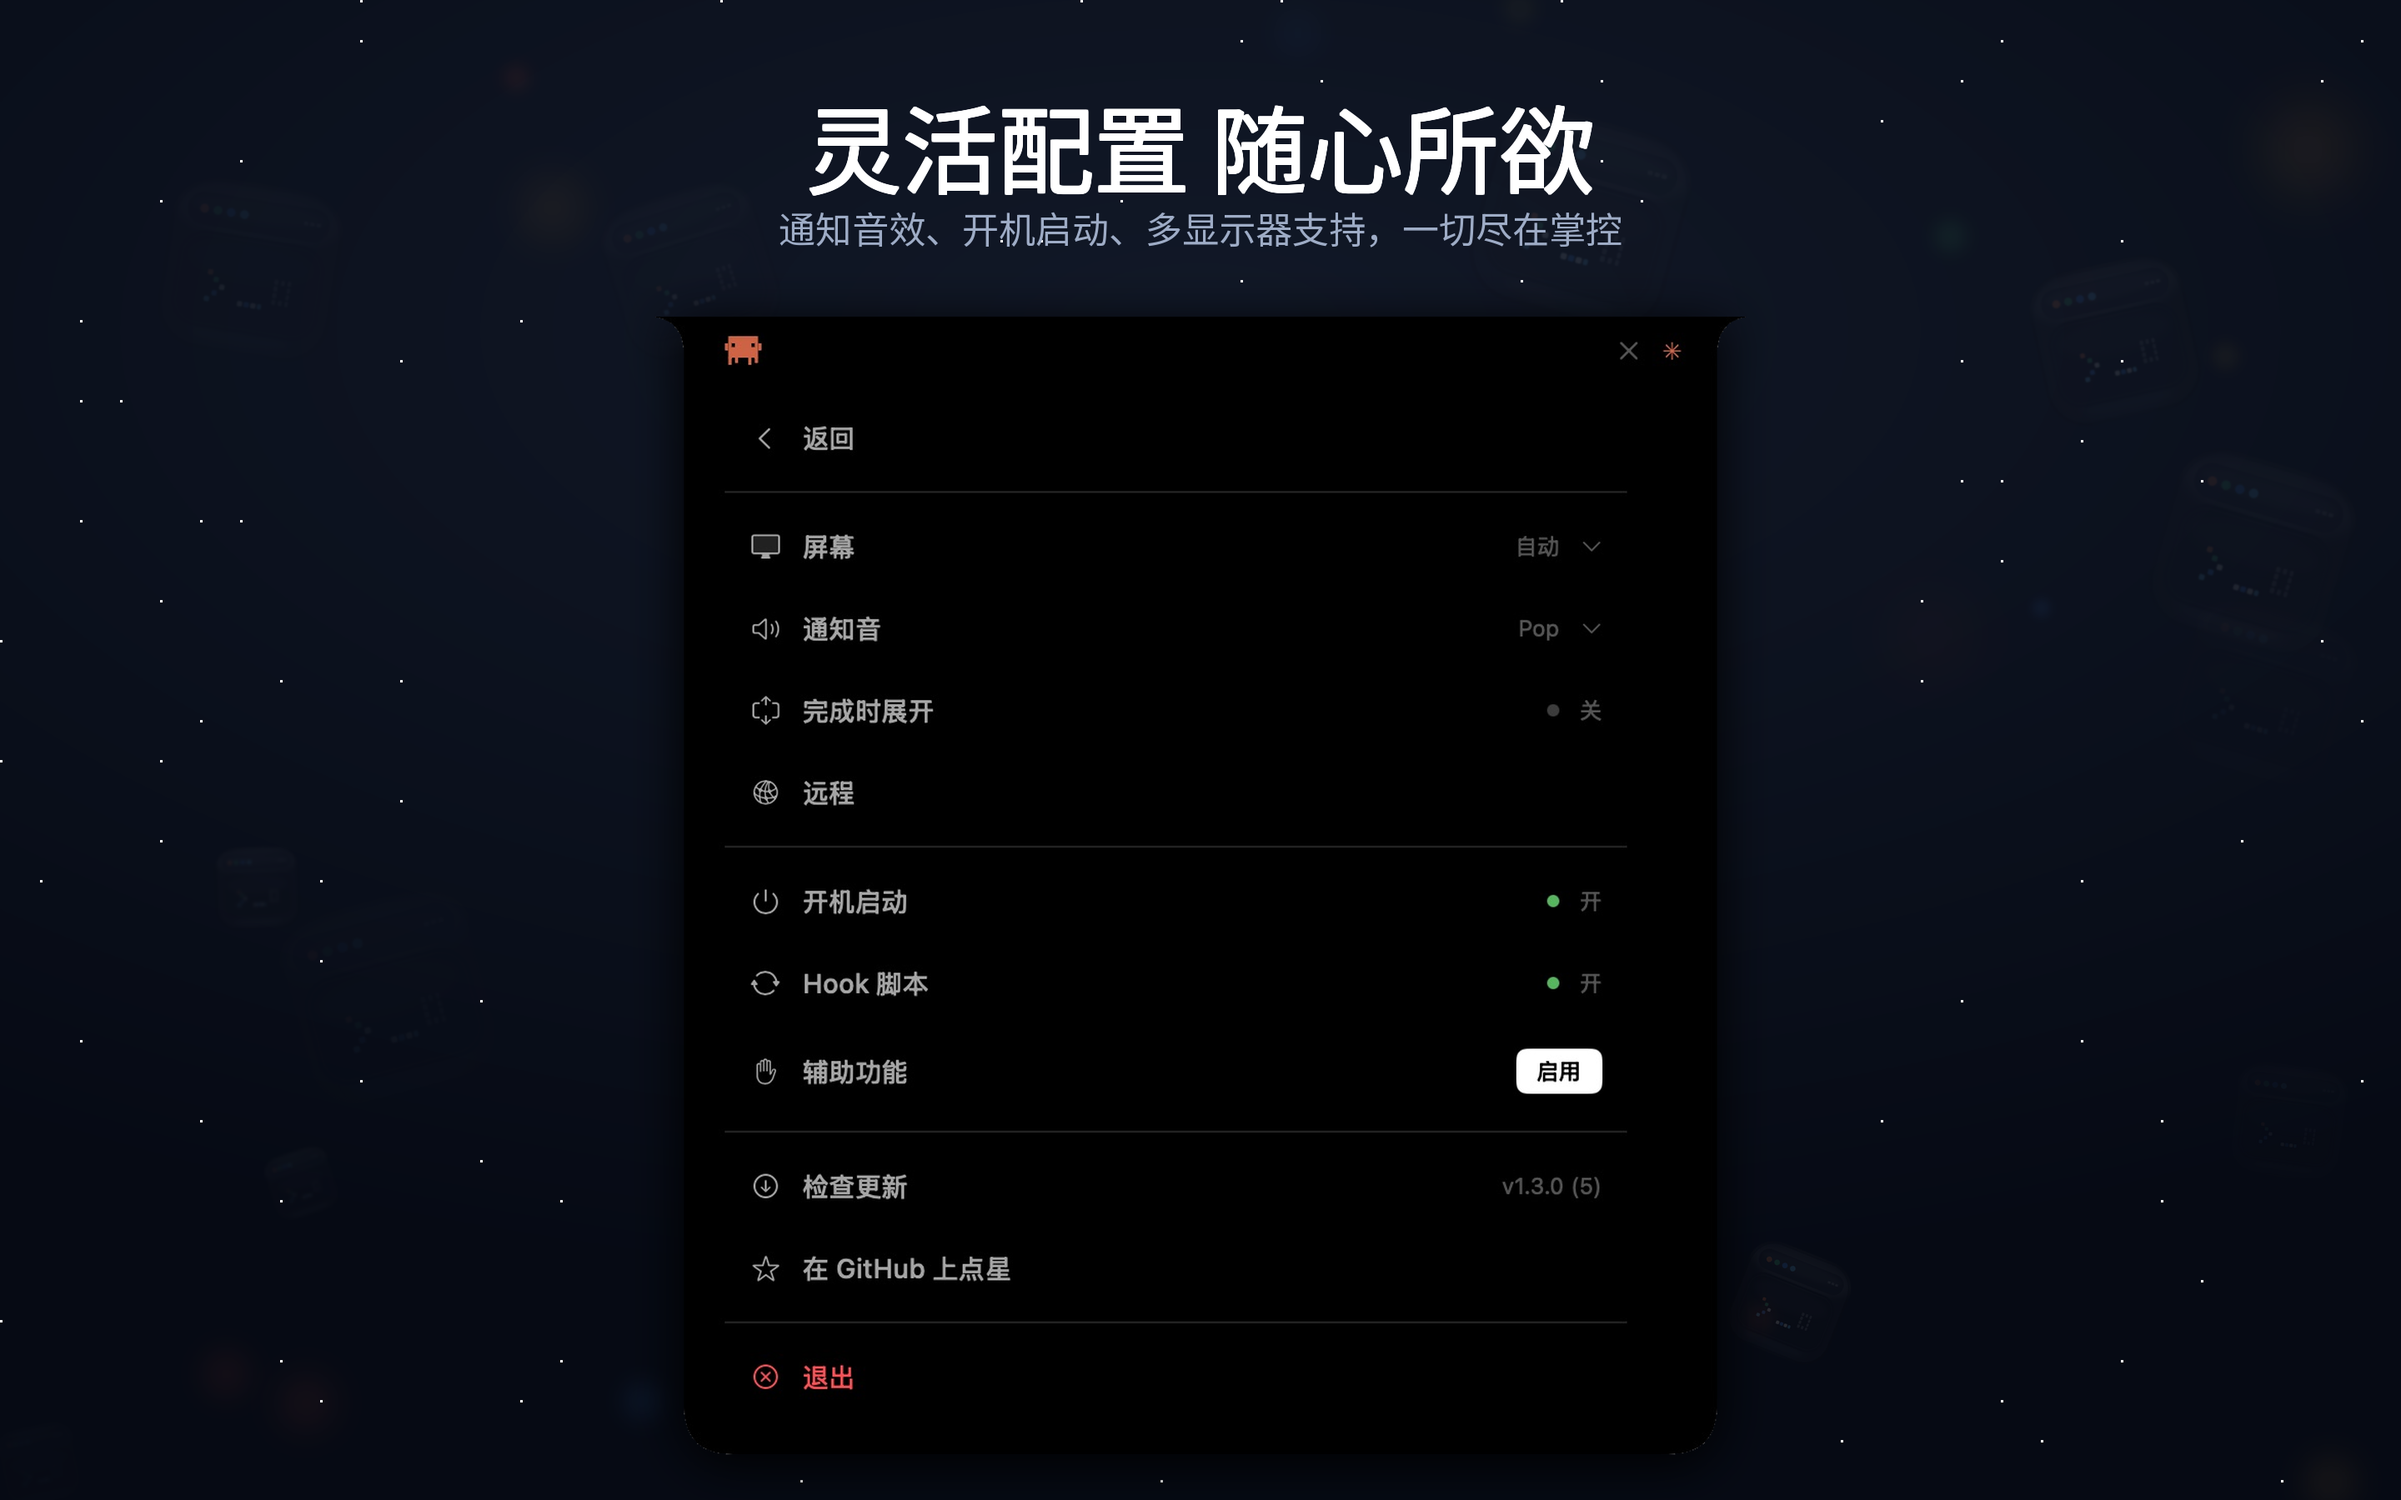
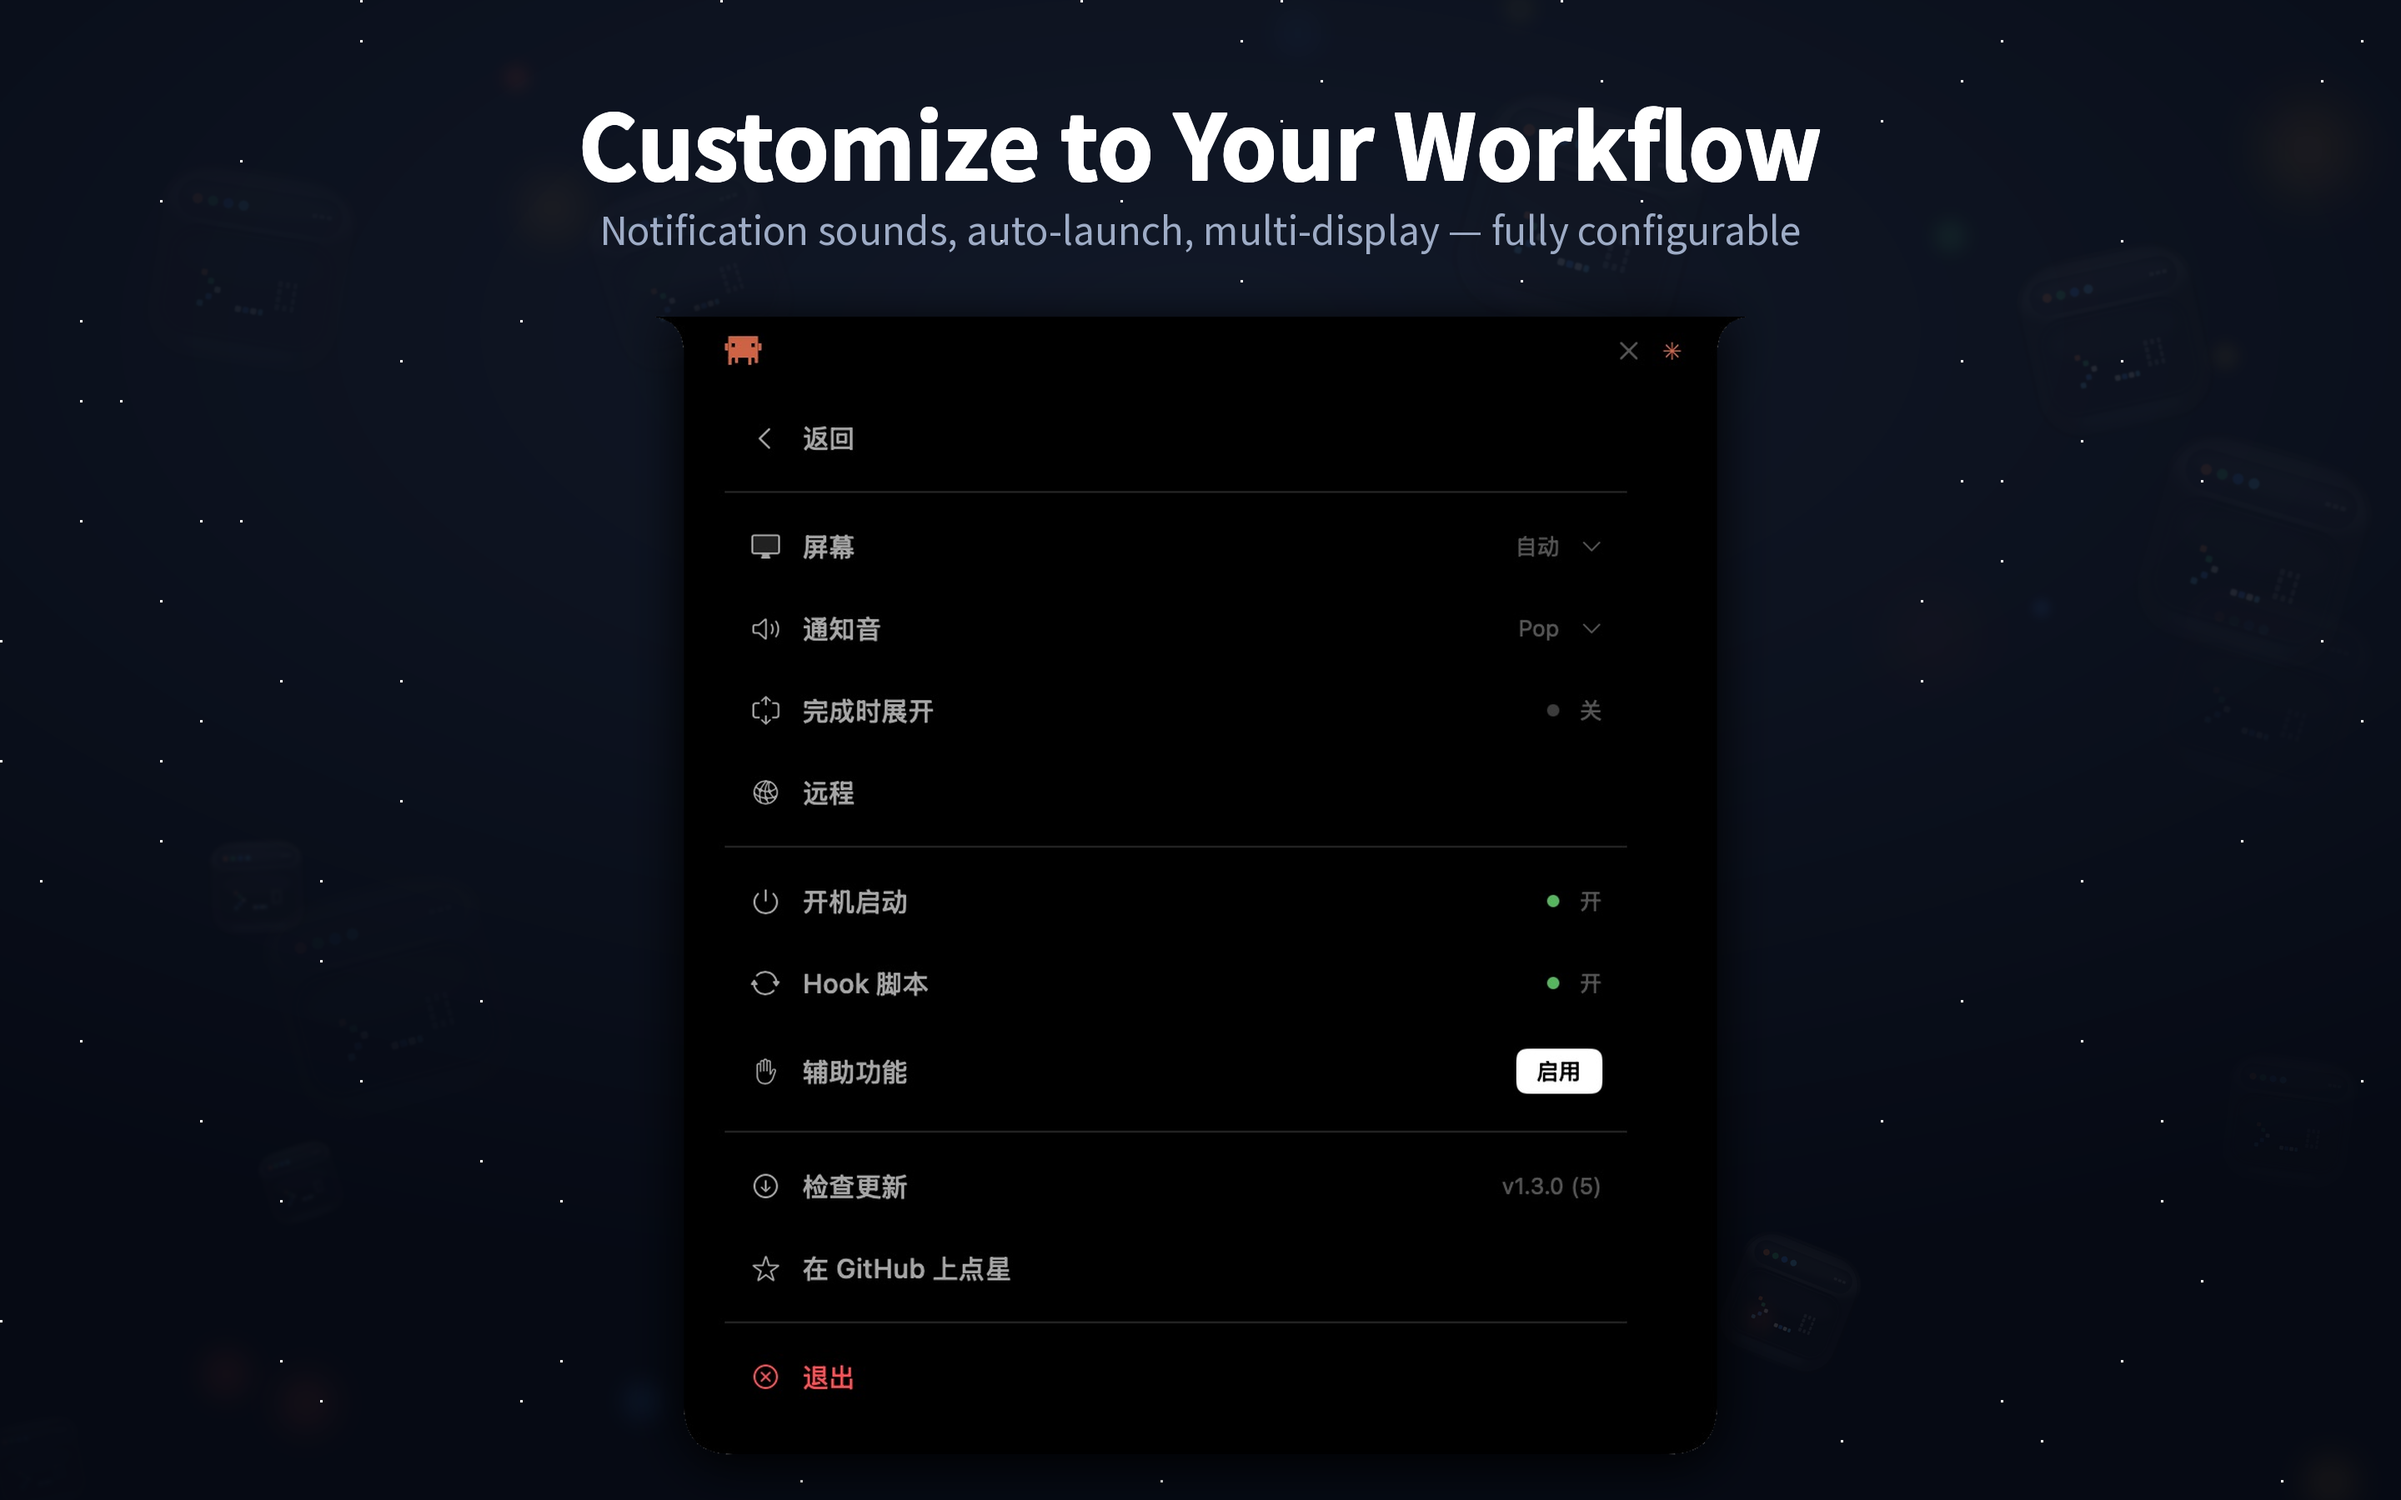
feat: update GitHub Pages with new EN screenshots and improved layout
- Replace screenshots with new English versions
- Add menubar and onboarding screenshots
- Change to single-column hero + two-column secondary layout for better visibility
- Add click-to-enlarge lightbox for all screenshots
- Widen screenshot container to 1200px

Changed region(s): [[0.2188, 0.0622, 0.7812, 0.1867]]

diff --git a/docs/index.html b/docs/index.html
@@ -32,6 +32,7 @@
         }
 
         .container { max-width: 960px; margin: 0 auto; padding: 0 24px; }
+        .container-wide { max-width: 1200px; margin: 0 auto; padding: 0 24px; }
 
         /* Hero */
         .hero {
@@ -92,8 +93,14 @@
         }
         .screenshot-grid {
             display: grid;
+            grid-template-columns: 1fr;
+            gap: 24px;
+            max-width: 900px;
+            margin: 0 auto;
+        }
+        .screenshot-grid.two-col {
             grid-template-columns: 1fr 1fr;
-            gap: 20px;
+            max-width: 100%;
         }
         .screenshot-card {
             background: var(--bg-card);
@@ -106,6 +113,7 @@
         .screenshot-card img {
             width: 100%;
             display: block;
+            cursor: zoom-in;
         }
         .screenshot-card .caption {
             padding: 16px 20px;
@@ -118,6 +126,26 @@
         .screenshot-card .caption p {
             font-size: 14px;
             color: var(--text-dim);
+        }
+
+        /* Lightbox */
+        .lightbox-overlay {
+            display: none;
+            position: fixed;
+            top: 0; left: 0; right: 0; bottom: 0;
+            background: rgba(0,0,0,0.9);
+            z-index: 9999;
+            cursor: zoom-out;
+            justify-content: center;
+            align-items: center;
+            padding: 24px;
+        }
+        .lightbox-overlay.active { display: flex; }
+        .lightbox-overlay img {
+            max-width: 100%;
+            max-height: 100%;
+            border-radius: 12px;
+            object-fit: contain;
         }
 
         /* Features */
@@ -244,7 +272,7 @@
         @media (max-width: 768px) {
             .hero h1 { font-size: 32px; }
             .hero .tagline { font-size: 17px; }
-            .screenshot-grid { grid-template-columns: 1fr; }
+            .screenshot-grid, .screenshot-grid.two-col { grid-template-columns: 1fr; }
             .feature-grid { grid-template-columns: 1fr; }
             .steps { grid-template-columns: 1fr; }
         }
@@ -271,31 +299,49 @@
 </section>
 
 <section class="screenshots">
-    <div class="container">
+    <div class="container-wide">
+        <!-- Hero screenshots: single column, large -->
         <div class="screenshot-grid">
             <div class="screenshot-card">
-                <img src="assets/images/sessions.png" alt="Session monitoring" loading="lazy">
+                <img src="assets/images/sessions.png" alt="Session monitoring" loading="lazy" onclick="openLightbox(this)">
                 <div class="caption">
                     <h3>Real-time Session Tracking</h3>
                     <p>Monitor all Claude Code and OpenCode sessions at a glance, including remote ones.</p>
                 </div>
             </div>
             <div class="screenshot-card">
-                <img src="assets/images/tools.png" alt="Tool tracking" loading="lazy">
+                <img src="assets/images/tools.png" alt="Tool tracking" loading="lazy" onclick="openLightbox(this)">
                 <div class="caption">
                     <h3>Tool Call Visibility</h3>
                     <p>See every tool call your AI agent makes in real time — edits, writes, commands, and more.</p>
                 </div>
             </div>
+        </div>
+        <!-- Secondary screenshots: two columns -->
+        <div class="screenshot-grid two-col" style="margin-top:24px">
             <div class="screenshot-card">
-                <img src="assets/images/remote.png" alt="Remote SSH" loading="lazy">
+                <img src="assets/images/menubar.png" alt="Menu Bar Mode" loading="lazy" onclick="openLightbox(this)">
+                <div class="caption">
+                    <h3>Menu Bar Mode</h3>
+                    <p>No notch? No problem. Access VibeHub from a menu bar icon with animated status on any Mac.</p>
+                </div>
+            </div>
+            <div class="screenshot-card">
+                <img src="assets/images/remote.png" alt="Remote SSH" loading="lazy" onclick="openLightbox(this)">
                 <div class="caption">
                     <h3>Remote SSH Monitoring</h3>
                     <p>Connect to remote servers via SSH and monitor AI sessions running on any machine.</p>
                 </div>
             </div>
             <div class="screenshot-card">
-                <img src="assets/images/settings.png" alt="Settings" loading="lazy">
+                <img src="assets/images/onboarding.png" alt="Guided Setup" loading="lazy" onclick="openLightbox(this)">
+                <div class="caption">
+                    <h3>Guided Setup</h3>
+                    <p>Pick your preferred mode on first launch. Auto mode adapts to your screen — notch or menu bar.</p>
+                </div>
+            </div>
+            <div class="screenshot-card">
+                <img src="assets/images/settings.png" alt="Settings" loading="lazy" onclick="openLightbox(this)">
                 <div class="caption">
                     <h3>Flexible Configuration</h3>
                     <p>Notification sounds, multi-display support, launch at login, and more.</p>
@@ -304,6 +350,11 @@
         </div>
     </div>
 </section>
+
+<!-- Lightbox -->
+<div class="lightbox-overlay" id="lightbox" onclick="closeLightbox()">
+    <img id="lightbox-img" src="" alt="Enlarged screenshot">
+</div>
 
 <section class="features">
     <div class="container">
@@ -402,5 +453,18 @@
     </div>
 </footer>
 
+<script>
+function openLightbox(img) {
+    var overlay = document.getElementById('lightbox');
+    document.getElementById('lightbox-img').src = img.src;
+    overlay.classList.add('active');
+}
+function closeLightbox() {
+    document.getElementById('lightbox').classList.remove('active');
+}
+document.addEventListener('keydown', function(e) {
+    if (e.key === 'Escape') closeLightbox();
+});
+</script>
 </body>
 </html>
